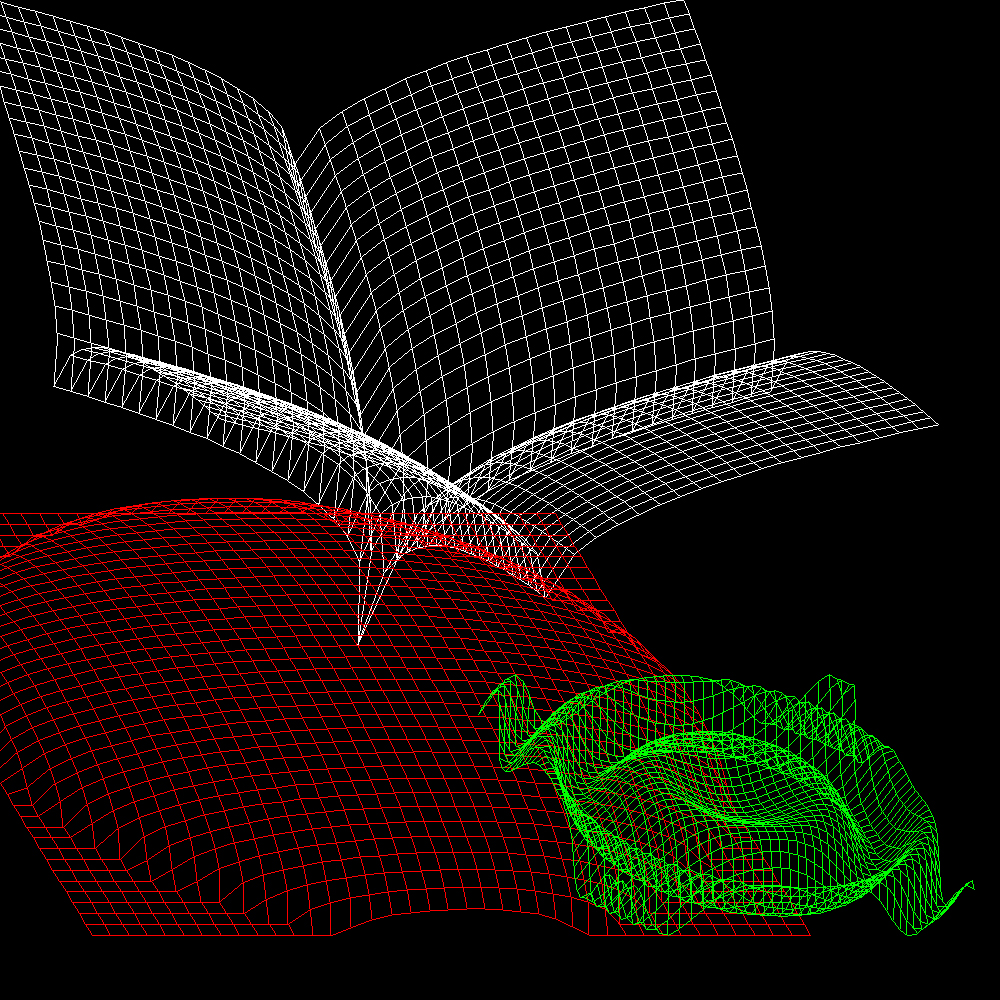
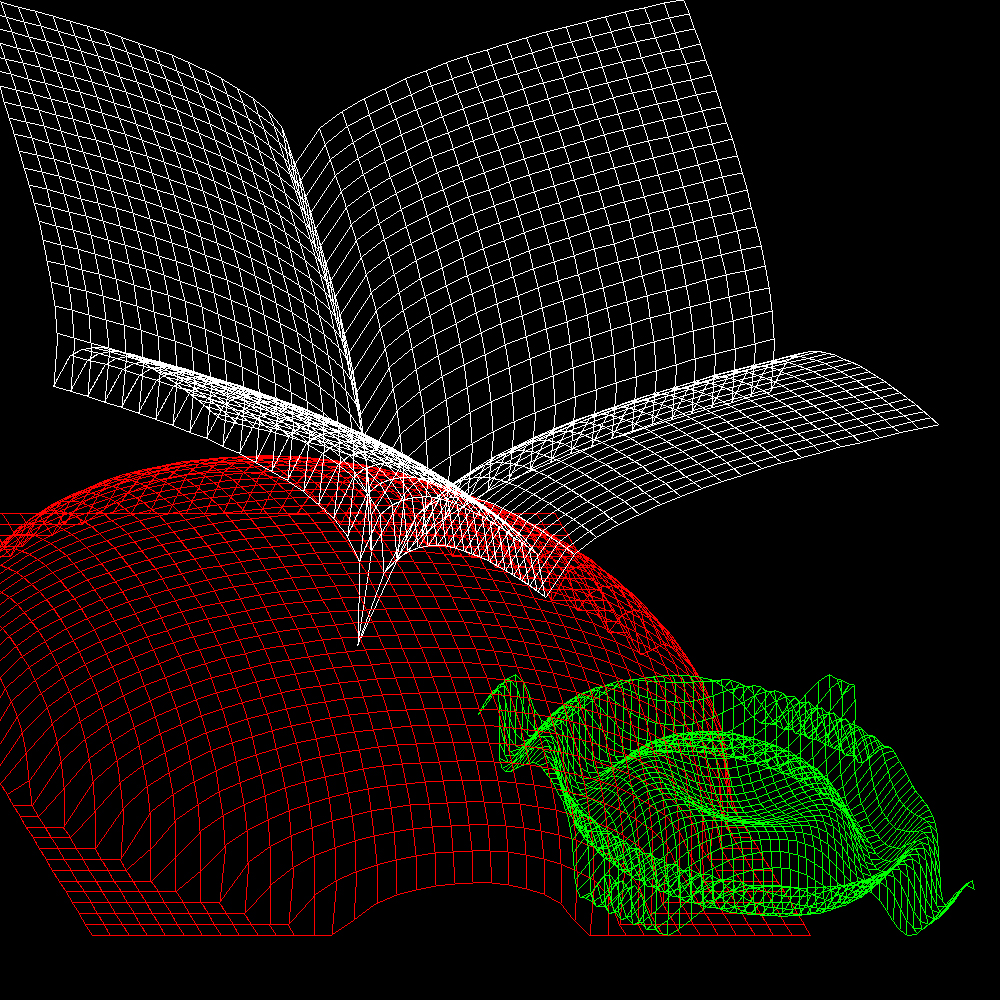
Update

Changed region(s): [[0.0, 0.434, 0.744, 0.93]]

diff --git a/example/MountainSea.cpp b/example/MountainSea.cpp
@@ -1,0 +1,385 @@
+#include <stdio.h>
+#include <stdlib.h>
+#include <vector>
+#include "LiGu_AlgorithmLib/Mat.h"
+#define PI 3.141592653589
+FILE* fin;
+/*-------------------------------- Gauss 滤波 --------------------------------
+//input：  输入原图//dst：  模糊图像//size： 核的大小//sigma：正态分布标准差
+--------------------------------------------------------------------------------*/
+void GaussFilter(Mat<double>& input, int size, float sigma, Mat<double>& output) {
+	if (size <= 0 || sigma == 0)return;
+	//二维Gauss核生成
+	Mat<double> kernel(size, size);
+	double sum = 0;
+	for (int y = 0; y < size; y++) {
+		for (int x = 0; x < size; x++) {
+			kernel(x, y) = (1 / (2 * PI * sigma * sigma))
+				* exp(-((x - size / 2) * (x - size / 2) + (y - size / 2) * (y - size / 2)) / (2 * sigma * sigma));
+			sum += kernel(x, y);
+		}
+	}
+	kernel.mult(1 / sum, kernel);
+	//Gauss卷积
+	output.zero(input.rows, input.cols);
+	for (int y = 0; y < input.rows; y++) {
+		for (int x = 0; x < input.cols; x++) {
+			for (int j = 0; j < size; j++) {
+				for (int i = 0; i < size; i++) {
+					int xt = x + i - size / 2, yt = y + j - size / 2;
+					if (xt < 0 || xt >= input.cols || yt < 0 || yt >= input.rows)continue;
+					output(x, y) += input(xt, yt) * kernel(i, j);
+				}
+			}
+		}
+	}
+}
+/*-------------------------------- Perlin Noise --------------------------------
+Function to linearly interpolate between a0 and a1 , Weight w should be in the range [0.0, 1.0]
+--------------------------------------------------------------------------------*/
+double PerlinNoise(double x, double y, Mat<double>& randomGridGradient) {
+	// 对四个格点
+	int x0[] = { x, x + 1, x, x + 1 }, y0[] = { y, y, y + 1, y + 1 };
+	double n[4];
+	for (int i = 0; i < 4; i++) {
+		//[1] 格点随机梯度矢量
+		double random = randomGridGradient(x0[i], y0[i]);
+		//[2] (x,y)与格点距离,梯度点积
+		double dx = x - x0[i], dy = y - y0[i];
+		n[i] = dx * cos(random) + dy * sin(random);
+	}
+	//[3] 插值
+	double sx = x - (int)x, sy = y - (int)y;
+	double ix0 = (n[1] - n[0]) * (3.0 - sx * 2.0) * sx * sx + n[0];
+	double ix1 = (n[3] - n[2]) * (3.0 - sx * 2.0) * sx * sx + n[2];
+	return (ix1 - ix0) * (3.0 - sy * 2.0) * sy * sy + ix0;
+}
+void PerlinNoise(Mat<double>& map, int frequency) {
+	Mat<double> randomGridGradient;
+	randomGridGradient.rands(frequency + 1, frequency + 1, 0, 256);
+	for (int y = 0; y < map.rows; y++)
+		for (int x = 0; x < map.cols; x++)
+			map(x, y) = PerlinNoise((double)x / map.cols * frequency, (double)y / map.rows * frequency, randomGridGradient);
+}
+/*-------------------------------- Mountain --------------------------------
+Function to linearly interpolate between a0 and a1 , Weight w should be in the range [0.0, 1.0]
+--------------------------------------------------------------------------------*/
+void Mountain(Mat<double>& map) {
+	Mat<double> t(map.rows, map.cols);
+	for (int k = 2; k <= map.rows; k *= 2) {
+		PerlinNoise(t, k);
+		map.add(map, t.mult(1.0 / k, t));
+	}map.mult(map.rows, map);
+}
+/*-------------------------------- translation --------------------------------*/
+void translation(Mat<double>& delta, Mat<double>& transMat) {
+	int n = delta.rows;
+	Mat<double> translationMat(n + 1);
+	for (int i = 0; i < n; i++)translationMat(i, n) = delta[i];
+	transMat.mult(translationMat, transMat);
+}
+/*-------------------------------- rotate --------------------------------
+*	[公式]: v' = q v q`¹
+		q = [cos(θ/2), u s in(θ/2)]
+		v=>[0,v]经旋转轴u旋转Ѳ角后得到v'
+	多次旋转:
+		v' = q1q2 v q2`¹q1`¹ = (q1q2) v (q1q2)`¹
+	四元数化旋转矩阵:
+		四元数左乘:
+		q v =	[a -b -c -d] v
+				|b  a -d  c|
+				|c  d  a -b|
+				[d -c  b  a]
+		四元数右乘:
+		v q =	[a -b -c -d] v
+				|b  a  d -c|
+				|c -d  a  b|
+				[d  c -b  a]
+四元数乘法: q1q2 = (v1 × v2 + w1v2 + w2v1 , w1w2 - v1·v2)
+----------------------------------------------------------------*/
+void rotate(Mat<double>& rotateAxis, double rotateAngle, Mat<double>& center, Mat<double>& transMat) {
+	Mat<double> tmp(3, 1);
+	if (rotateAxis == tmp) return;
+	translation(center.negative(tmp), transMat);
+	// rotate
+	rotateAxis.normalization();
+	Mat<double> q(4, 1);
+	{ double t[] = { cos(rotateAngle / 2)
+		,rotateAxis[0] * sin(rotateAngle / 2)
+		,rotateAxis[1] * sin(rotateAngle / 2)
+		,rotateAxis[2] * sin(rotateAngle / 2) }; q.getData(t); }
+	// rotate Mat
+	Mat<double> rotateMat(4);
+	{double t[] = {
+		1 - 2 * q[2] * q[2] - 2 * q[3] * q[3],2 * q[1] * q[2] - 2 * q[0] * q[3],2 * q[1] * q[3] + 2 * q[0] * q[2],0,
+		2 * q[1] * q[2] + 2 * q[0] * q[3],1 - 2 * q[1] * q[1] - 2 * q[3] * q[3],2 * q[2] * q[3] - 2 * q[0] * q[1],0,
+		2 * q[1] * q[3] - 2 * q[0] * q[2], 2 * q[2] * q[3] + 2 * q[0] * q[1],1 - 2 * q[1] * q[1] - 2 * q[2] * q[2],0
+	}; rotateMat.getData(t); }
+	transMat.mult(rotateMat, transMat);
+	translation(center, transMat);
+}
+/*-------------------------------- Fractal Tree 3D --------------------------------*/
+void FractalTree3D(std::vector<Mat<double>>& linesSt, std::vector<Mat<double>>& linesEd, int level, double alpha) {
+	if (level <= 0)return;
+	Mat<double> lineSt0 = linesSt.back();
+	Mat<double> lineEd0 = linesEd.back();
+	// 确定旋转矩阵
+	Mat<double> direction, rotateAxis, rotateMat(4), Temp(3, 1);
+	direction.add(lineEd0, lineSt0.negative(direction));
+	{ double t[] = { 0, 0, 1 }; Temp.getData(t); }
+	rotateAxis.crossProduct(direction, Temp);
+	double rotateAngle = -acos(Temp.dot(direction, Temp) / direction.norm()); // cosθ = a * b / (|a| * |b|)
+	rotate(rotateAxis, rotateAngle, Temp.zero(3, 1), rotateMat);
+	Temp = rotateMat; rotateMat.E(3);
+	for (int i = 0; i < 3; i++)for (int j = 0; j < 3; j++)rotateMat(i, j) = Temp(i, j);
+	//递归
+	int fork = 3;
+	double Lenth = direction.norm();
+	Mat<double> endPoint(3, 1);
+	for (int i = 0; i < fork; i++) {
+		{double t[] = { sin(alpha) * cos((double)i * 2 * PI / fork), sin(alpha) * sin((double)i * 2 * PI / fork), cos(alpha) }; endPoint.getData(t); }
+		endPoint.add(lineEd0, endPoint.mult(0.7 * Lenth, endPoint.mult(rotateMat, endPoint)));
+		linesSt.push_back(lineEd0);
+		linesEd.push_back(endPoint);
+		FractalTree3D(linesSt, linesEd, level - 1, alpha);
+	}
+}
+/*-------------------------------- obj Save --------------------------------
+Function to linearly interpolate between a0 and a1 , Weight w should be in the range [0.0, 1.0]
+--------------------------------------------------------------------------------*/
+void ObjSave(Mat<double>& map, const char* url) {
+	static int index = 1;
+	for (int y = 0; y < map.rows; y++)
+		for (int x = 0; x < map.cols; x++)
+			fprintf(fin, "v %f %f %f\n", (float)x, map(x, y), (float)y);
+	for (int y = 1; y < map.rows; y++)
+		for (int x = 1; x < map.cols; x++)
+			fprintf(fin, "f %d %d %d %d\n", (y - 1) * map.cols + x + index, (y - 1) * map.cols + x - 1 + index, y * map.cols + x - 1 + index, y * map.cols + x + index);
+	index += map.rows * map.cols;
+}
+
+
+
+/*-------------------------------- draw Triangle --------------------------------
+Function to linearly interpolate between a0 and a1 , Weight w should be in the range [0.0, 1.0]
+--------------------------------------------------------------------------------*/
+void drawTriangle(Mat<double>& p1, Mat<double>& p2, Mat<double>& p3) {
+	fprintf(fin, "v %f %f %f\n", p1[0], p1[2], p1[1]);
+	fprintf(fin, "v %f %f %f\n", p2[0], p2[2], p2[1]);
+	fprintf(fin, "v %f %f %f\n", p3[0], p3[2], p3[1]);
+	fprintf(fin, "f -3 -2 -1\n");
+}
+/*-------------------------------- draw Rectangle --------------------------------
+Function to linearly interpolate between a0 and a1 , Weight w should be in the range [0.0, 1.0]
+--------------------------------------------------------------------------------*/
+void drawRectangle(Mat<double>& p1, Mat<double>& p2, Mat<double>& p3, Mat<double>& p4) {
+	drawTriangle(p1, p2, p3); drawTriangle(p1, p3, p4);
+}
+/*-------------------------------- draw cylinder --------------------------------
+Function to linearly interpolate between a0 and a1 , Weight w should be in the range [0.0, 1.0]
+--------------------------------------------------------------------------------*/
+void drawCylinder(Mat<double>& st, Mat<double>& ed, double r) {
+	Mat<double> direction, rotateAxis(3, 1), rotateMat(4), tmp(3, 1);
+	direction.add(st, ed.negative(direction));
+	{ double t[] = { 0, 0, 1 }; tmp.getData(t); }
+	rotateAxis.crossProduct(direction, tmp);
+	double rotateAngle = -acos(tmp.dot(direction, tmp) / direction.norm());
+	rotate(rotateAxis, rotateAngle, tmp.zero(3, 1), rotateMat);
+	tmp = rotateMat; rotateMat.E(3);
+	for (int i = 0; i < 3; i++)for (int j = 0; j < 3; j++)rotateMat(i, j) = tmp(i, j);
+	//
+	Mat<double> stPoint(3, 1), preStPoint;
+	Mat<double> edPoint(3, 1), preEdPoint;
+	for (int i = 0; i <= 360; i++) {
+		Mat<double> delta(3, 1);
+		{double t[] = { r * cos((double)i * 2 * PI / 360), r * sin((double)i * 2 * PI / 360),0 }; delta.getData(t); }
+		delta.mult(rotateMat, delta);
+		stPoint.add(st, delta);
+		edPoint.add(ed, delta);
+		if (i != 0) {
+			drawTriangle(st, stPoint, preStPoint);
+			drawTriangle(ed, edPoint, preEdPoint);
+			drawRectangle(stPoint, edPoint, preEdPoint, preStPoint);
+		}
+		preStPoint = stPoint;
+		preEdPoint = edPoint;
+	}
+}
+void drawCylinder(Mat<double>& st, Mat<double>& ed, double stR, double edR) {
+	Mat<double> direction, rotateAxis(3, 1), rotateMat(4), tmp(3, 1);
+	direction.add(st, ed.negative(direction));
+	{double t[] = { 0, 0, 1 }; tmp.getData(t); }
+	rotateAxis.crossProduct(direction, tmp);
+	double rotateAngle = -acos(tmp.dot(direction, tmp));
+	rotate(rotateAxis, rotateAngle, tmp.zero(3, 1), rotateMat);
+	tmp = rotateMat; rotateMat.E(3);
+	for (int i = 0; i < 3; i++)for (int j = 0; j < 3; j++)rotateMat(i, j) = tmp(i, j);
+	//
+	Mat<double> stPoint(3, 1), preStPoint;
+	Mat<double> edPoint(3, 1), preEdPoint;
+	for (int i = 0; i <= 360; i++) {
+		Mat<double> delta(3, 1);
+		{double t[] = { cos((double)i * 2 * PI / 360), sin((double)i * 2 * PI / 360),0 }; delta.getData(t); }
+		delta.mult(rotateMat, delta);
+		stPoint.add(st, stPoint.mult(stR, delta));
+		edPoint.add(ed, edPoint.mult(edR, delta));
+		if (i != 0) {
+			drawTriangle(st, stPoint, preStPoint);
+			drawTriangle(ed, edPoint, preEdPoint);
+			drawRectangle(stPoint, edPoint, preEdPoint, preStPoint);
+		}
+		preStPoint = stPoint;
+		preEdPoint = edPoint;
+	}
+}
+
+
+#include<time.h>
+int main() {
+	time_t timenow;
+	srand((unsigned)time(&timenow));
+	fin = fopen("D:/LIGU.obj", "w+");
+	// Mountain
+	Mat<double> mountain(1024, 1024);
+	Mountain(mountain);
+	ObjSave(mountain, "D:/LIGU.obj");
+	// Sea
+	Mat<double> sea(1024, 1024);
+	ObjSave(sea, "D:/LIGU.obj");
+	// Tree
+	std::vector<Mat<double>> TreeSt, TreeEd;
+	{
+		int indexMax;
+		mountain.max(indexMax);
+		Mat<double> tMat(3, 1);
+		{double t[] = { indexMax / mountain.rows,indexMax % mountain.rows,mountain[indexMax] }; tMat.getData(t); }
+		TreeSt.push_back(tMat);
+		{double t[] = { indexMax / mountain.rows,indexMax % mountain.rows,mountain[indexMax] + 1.5 }; tMat.getData(t); }
+		TreeEd.push_back(tMat);
+	}
+	FractalTree3D(TreeSt, TreeEd, 6, (double)30 * 2 * PI / 360);
+	for (int i = 0; i < TreeSt.size(); i++) {
+		Mat<double> tmp;
+		double Width = 0.1 * (tmp.add(TreeSt[i], TreeEd[i].negative(tmp))).norm();
+		drawCylinder(TreeSt[i], TreeEd[i], Width, 0.7 * Width);
+	}
+}
+
+
+
+
+/******************************************************************************
+*                    Boids
+*	[Rule]:
+		[1] Collision Avoidance: avoid collisions with nearby flockmates
+		[2] Velocity Matching: attempt to match velocity with nearby flockmates
+		[3] Flock Centering: attempt to stay close to nearby flockmates
+*	[过程]:
+		[可见域内]:
+			[1] 可见距离判定
+			[2] 可见角度判定
+		[Rule 1]: 可见域内，同各个个体的反向方向，除以距离，作为加速度 a1
+		[Rule 2]: 可见域内, 质心速度, 作为加速度 a2
+		[Rule 3]: 可见域内, 质心位置方向, 作为加速度 a3
+		[障碍规避]:
+			[1] 生成均匀球面点分布
+			[2] 依次从速度方向,向四周,发出射线进行障碍检测,射线距离在可见域内
+			[3] 选择第一束探测无障碍的射线, 作为避障加速度 a4
+		[ v ]: v = (Σwi·ai)·dt
+				v 归一化单位矢量: ^v  =>  v = v0·^v
+		[ r ]: r = v·dt = v0·dt·^v
+*	[Referance]:
+		[1] Thanks for https://github.com/SebLague/Boids
+******************************************************************************/
+class Boids {
+public:
+	struct Boids_cell { Mat<double> r{ 3,1 }, v{ 3,1 }, a{ 3,1 }; };
+	double size = 300, deltaT = 1, speed = 3;
+	double visualField = 20, visualAngle = -0.5;		// 能见范围 // 能见角度cosθ
+	double weight[4] = { 1,1,1,4 };					// 各规则的权值
+	Mat<double>* obstacleAvoidance_direction;
+	/*********************************[ 函数 ]*********************************/
+	/*--------------------------------[ Boids ]--------------------------------*/
+	Boids() {
+		int N = 200;
+		Boids_cell cell[200];
+		for (int i = 0; i < N; i++) {
+			cell[i].r.rands(3, 1, -size / 2, size / 2);
+			cell[i].v.rands(3, 1, 0, 1);
+			cell[i].v.normalization();
+		}
+		obstacleAvoidance_init();
+	}
+	/*--------------------------------[ play 运行 ]--------------------------------*/
+	void play(Boids_cell cell[], int n) {
+		for (int i = 0; i < n; i++) {
+			rule(cell, n, i);
+			obstacleAvoidance(cell[i]);
+		}
+		Mat<double> temp(3, 1);
+		for (int i = 0; i < n; i++) {
+			cell[i].v.add(cell[i].v, temp.mult(deltaT, cell[i].a));
+			cell[i].v.normalization();
+			cell[i].r.add(cell[i].r, temp.mult(deltaT * speed, cell[i].v));
+		}
+	}
+	/*--------------------------------[ rule 规则 ]--------------------------------*/
+	void rule(Boids_cell cell[], int n, int index) {
+		Mat<double> distance(3, 1);
+		Mat<double> avoidDirection(3, 1), groupVelocity(3, 1), groupCenter(3, 1), temp;
+		int groupNum = 0;
+		for (int i = 0; i < n; i++) {
+			if (i == index)continue;
+			// 能见范围
+			distance.add(cell[i].r, cell[index].r.negative(distance));
+			if (distance.norm() > visualField)continue;
+			// 能见角度
+			double angle = distance.dot(distance, cell[index].v) / (distance.norm() * cell[index].v.norm()); // cosθ = a * b / (|a| * |b|)
+			if (angle < visualAngle)continue;
+			groupNum++;
+			//[Rule 1]: collisionAvoid  [Rule 2]: velocityMatching  [Rule 3]: flockCentering
+			avoidDirection.add(avoidDirection, temp.mult(1 / distance.norm(), distance));
+			groupVelocity.add(groupVelocity, cell[i].v);
+			groupCenter.add(groupCenter, distance);
+		}
+		avoidDirection.negative(avoidDirection);
+		// Update Acceleration
+		cell[index].a.clean();
+		if (groupNum == 0) return;
+		cell[index].a.add(cell[index].a, avoidDirection.mult(weight[0], avoidDirection.normalization()));
+		cell[index].a.add(cell[index].a, groupVelocity.mult(weight[1], groupVelocity.normalization()));
+		cell[index].a.add(cell[index].a, groupCenter.mult(weight[2], groupCenter.normalization()));
+	}
+	/*--------------------------------[ obstacleAvoidance 障碍规避 ]--------------------------------*/
+	void obstacleAvoidance_init() {// 均匀球面点
+		int numViewDirections;  Mat<double>zero(3, 1);
+		//obstacleAvoidance_direction = getSphereFibonacciPoint(numViewDirections);
+	}
+	void obstacleAvoidance(Boids_cell& cell) {
+		// 确定坐标变换矩阵
+		Mat<double>rorateAxis(3, 1), rotateMat, Temp(3, 1);
+		rorateAxis.crossProduct(cell.v, obstacleAvoidance_direction[0]);
+		double theta = -acos(Temp.dot(cell.v, obstacleAvoidance_direction[0])); // cosθ = a * b / (|a| * |b|)
+		rotate(rorateAxis.normalization(), theta, Temp, rotateMat);
+
+		Temp = rotateMat; rotateMat.E(3);
+		for (int i = 0; i < 3; i++)for (int j = 0; j < 3; j++)rotateMat(i, j) = Temp(i, j);
+		// 碰撞检测
+		Mat<double>derection(3, 1);
+		for (int k = 0; k < 200; k++) {
+			derection.mult(rotateMat, obstacleAvoidance_direction[k]);
+			bool flag = 1; int distance = visualField;
+			while (--distance > 0) {
+				Temp.add(Temp.mult(distance, derection), cell.r);
+				if (obstacleFunction(Temp)) { flag = 0; break; }
+			}
+			if (flag)break;
+		}
+		cell.a.add(cell.a, derection.mult(weight[3], derection));
+	}
+	bool obstacleFunction(Mat<double>& point) {
+		for (int i = 0; i < 3; i++)
+			if (fabs(point[i]) >= size)return true;
+		return false;
+	}
+};
